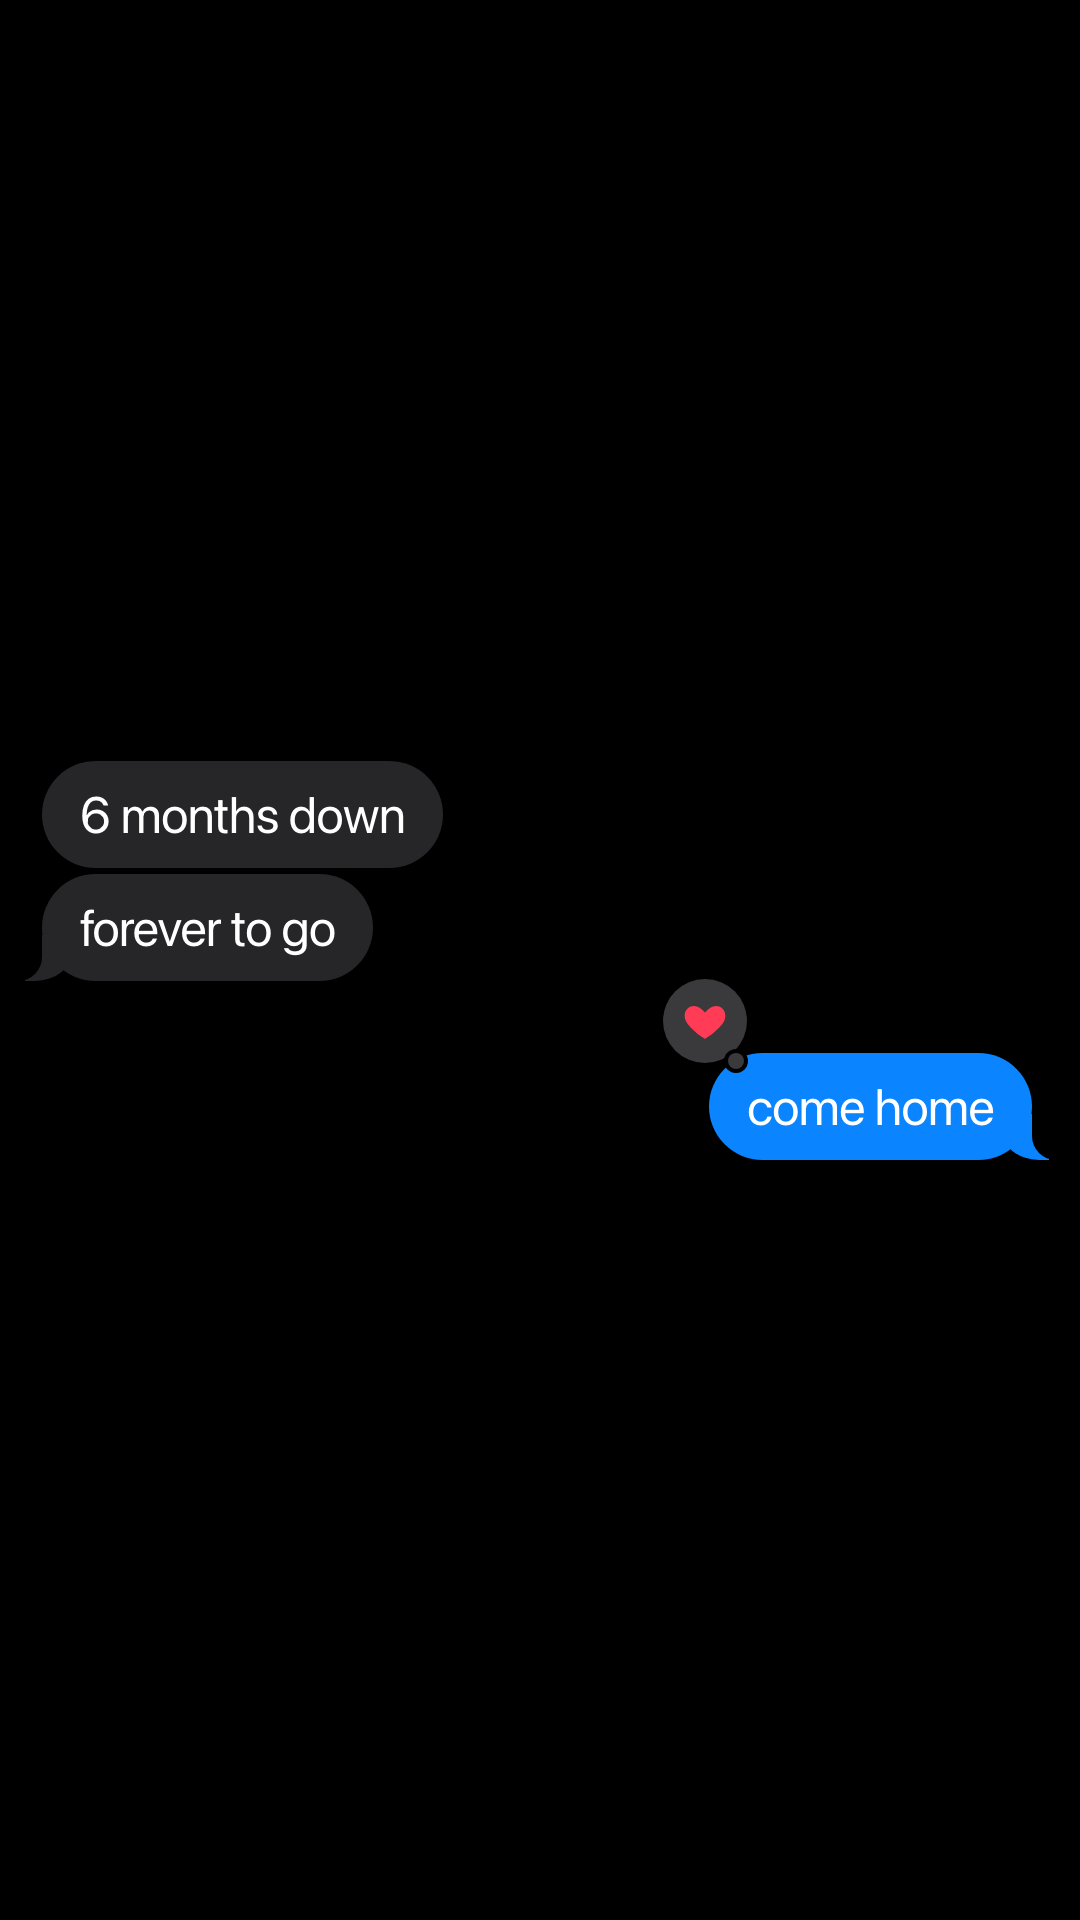
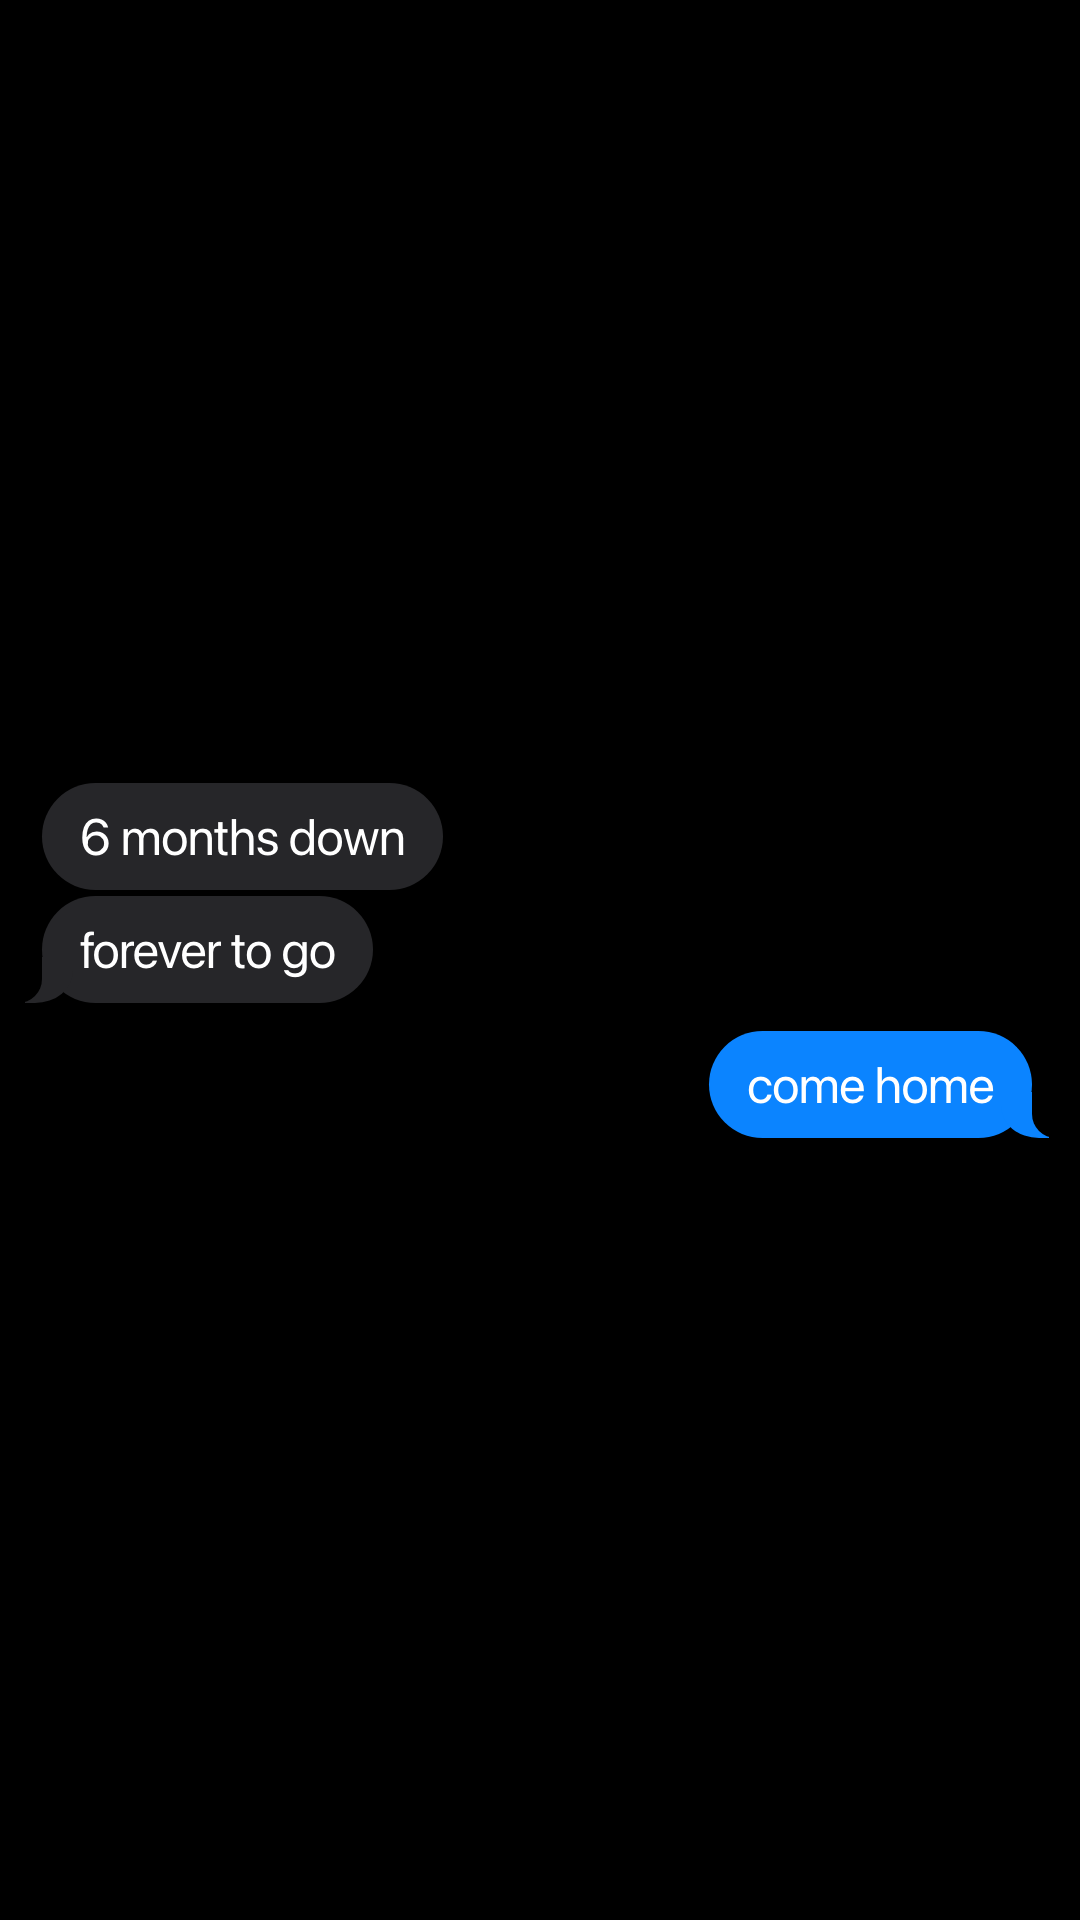
581–585: a fourth slide with a twist people comment on

Changed region(s): [[0.0306, 0.375, 0.4278, 0.5312], [0.6111, 0.5, 0.9778, 0.625]]

diff --git a/docs/marketing/tiktok-581/SCRIPT.md b/docs/marketing/tiktok-581/SCRIPT.md
@@ -1,7 +1,7 @@
-# 581 · id pick u every single one
+# 581 · especially that day
 
-**For:** any account, rosie included. **Engine:** saves and sends: a boyfriend plainly in love on an anniversary, so people get jealous and send it to theirs (30's engine).
-**Format:** rosie's own: 3 iMessage slides (1080×1920, dark iMessage, no crop, no look), posted as a photo carousel in this order, with a soft trending sound. Maya and Leo. The pink card (`"card": "blush"`). Link card only. If you add your own gift screenshots, put them after the slide with the link.
+**For:** any account, rosie included. **Engine:** saves and sends, with a twist for comments. A boyfriend plainly in love on an anniversary, so people get jealous and send it to theirs (30's engine). The last slide adds the turn people comment on.
+**Format:** rosie's own: 4 iMessage slides (1080×1920, dark iMessage, no crop, no look), posted as a photo carousel in this order, with a soft trending sound. Maya and Leo. The pink card (`"card": "blush"`). Link card only. If you add your own gift screenshots, put them after the slide with the link.
 **Before posting:** More options → Disclose post content → **Your brand** (TikTok's rule for posts that promote your own product).
 
 ## The story, slide by slide
@@ -9,12 +9,13 @@
 1. Yesterday 11:58 PM, he: "u awake my love" / She: "yes why" / He: "stay up 2 more minutes" / She: "why"
 2. Today 12:00 AM, he: "happy 1 year baby" / "best year of my whole life" and the link "happy 1 year maya 🤍" (pink card)
 3. 12:06 AM, she: "im crying" / "i love u so much" / He: "365 days and id pick u every single one" ♥
+4. She: "even the day i threw ur phone in the lake?" / He: "especially that day"
 
 **Real:** the chat never says what's inside the gift.
 
-## Why people will send it
+## Why people will comment
 
-30's clock (984.8K, 24.9K saves) on a first anniversary. "365 days and id pick u every single one" is the line girls send to their boyfriends, and the caption asks them to.
+The sweet part makes them jealous and send it. The twist is the lake. Everyone asks why she threw his phone in a lake, and he still picks that day.
 
 ## Caption (written as a search)
 
@@ -28,11 +29,11 @@ Never the website in the caption, and no 💅.
 
 ## Pinned comment (in character, never a brand)
 
-hes already planning year 2
+it was a pond. he still brings it up
 
 ## In the first hour
 
-Reply as Maya, in character. If someone asks what the site is, reply "tryethos" and pin that reply.
+Reply as Maya, in character. Have this ready: "why did u throw his phone 😭" → "he said my ex's name in his sleep. it was his COUSIN's name. long story". If someone asks what the site is, reply "tryethos" and pin that reply.
 
 ## Files
 

diff --git a/docs/marketing/tiktok-582/SCRIPT.md b/docs/marketing/tiktok-582/SCRIPT.md
@@ -1,20 +1,21 @@
-# 582 · come home
+# 582 · i lied
 
-**For:** any account, rosie included. **Engine:** saves and sends: a boyfriend plainly in love on an anniversary, so people get jealous and send it to theirs (30's engine).
-**Format:** rosie's own: 3 iMessage slides (1080×1920, dark iMessage, no crop, no look), posted as a photo carousel in this order, with a soft trending sound. Maya and Leo. The pink card (`"card": "blush"`). Link card only. If you add your own gift screenshots, put them after the slide with the link.
+**For:** any account, rosie included. **Engine:** saves and sends, with a twist for comments. A boyfriend plainly in love on an anniversary, so people get jealous and send it to theirs (30's engine). The last slide adds the turn people comment on.
+**Format:** rosie's own: 4 iMessage slides (1080×1920, dark iMessage, no crop, no look), posted as a photo carousel in this order, with a soft trending sound. Maya and Leo. The pink card (`"card": "blush"`). Link card only. If you add your own gift screenshots, put them after the slide with the link.
 **Before posting:** More options → Disclose post content → **Your brand** (TikTok's rule for posts that promote your own product).
 
 ## The story, slide by slide
 
 1. 6:58 AM, he: "good morning beautiful" / "its 1am here but i wanted to be first" / "happy 6 months" and the link "happy 6 months my love 🤍" (pink card)
 2. 7:16 AM, she: "LEO" / "i just woke up to this" / "im crying before coffee"
-3. He: "6 months down" / "forever to go" / She: "come home" ♥
+3. He: "6 months down" / "forever to go" / She: "come home"
+4. He: "check ur front door" / She: "u said it was 1am there" / He: "i lied" ♥
 
 **Real:** the chat never says what's inside the gift.
 
-## Why people will send it
+## Why people will comment
 
-Long distance couples send it to each other. He stayed up until 1am to be first, and "come home" is the sad-sweet last beat.
+The sweet part makes them jealous and send it. The twist is slide 4 changes slide 1: "its 1am here" was a lie, and he's at her door. People go back and read it again, and "i lied" is the line they quote.
 
 ## Caption (written as a search)
 
@@ -28,11 +29,11 @@ Never the website in the caption, and no 💅.
 
 ## Pinned comment (in character, never a brand)
 
-he lands in 12 days
+he was in the car outside the whole time
 
 ## In the first hour
 
-Reply as Maya, in character. If someone asks what the site is, reply "tryethos" and pin that reply.
+Reply as Maya, in character. Have this ready: "so it wasnt 1am 😭" → "it was 6:58am and he was 4 minutes away". If someone asks what the site is, reply "tryethos" and pin that reply.
 
 ## Files
 

diff --git a/docs/marketing/tiktok-584/SCRIPT.md b/docs/marketing/tiktok-584/SCRIPT.md
@@ -1,7 +1,7 @@
-# 584 · tell them its our anniversary
+# 584 · maya i have 3
 
-**For:** any account, rosie included. **Engine:** saves and sends: a boyfriend plainly in love on an anniversary, so people get jealous and send it to theirs (30's engine).
-**Format:** rosie's own: 3 iMessage slides (1080×1920, dark iMessage, no crop, no look), posted as a photo carousel in this order, with a soft trending sound. Maya and Leo. The pink card (`"card": "blush"`). Link card only. If you add your own gift screenshots, put them after the slide with the link.
+**For:** any account, rosie included. **Engine:** saves and sends, with a twist for comments. A boyfriend plainly in love on an anniversary, so people get jealous and send it to theirs (30's engine). The last slide adds the turn people comment on.
+**Format:** rosie's own: 4 iMessage slides (1080×1920, dark iMessage, no crop, no look), posted as a photo carousel in this order, with a soft trending sound. Maya and Leo. The pink card (`"card": "blush"`). Link card only. If you add your own gift screenshots, put them after the slide with the link.
 **Before posting:** More options → Disclose post content → **Your brand** (TikTok's rule for posts that promote your own product).
 
 ## The story, slide by slide
@@ -9,12 +9,13 @@
 1. 11:47 AM, she: "im so sorry i have to work today" / "on our anniversary" / He: "dont be sorry baby"
 2. He: "open this on ur break" and the link "happy anniversary 🤍" (pink card)
 3. 1:12 PM, she: "my coworkers are asking why im crying" / He: "tell them its our anniversary" ♥
+4. She: "i did" / "now my manager wants to know if u have a brother" / He: "maya i have 3"
 
 **Real:** the chat never says what's inside the gift.
 
-## Why people will send it
+## Why people will comment
 
-Everyone who works on a special day knows the feeling. He makes it about her anyway, and the coworkers asking is the detail that makes people ask what it was.
+The sweet part makes them jealous and send it. The twist is the brothers. People tag their single friends, and the comments fill with "does he really have 3".
 
 ## Caption (written as a search)
 
@@ -28,11 +29,11 @@ Never the website in the caption, and no 💅.
 
 ## Pinned comment (in character, never a brand)
 
-my manager let me leave early
+2 of them are single btw
 
 ## In the first hour
 
-Reply as Maya, in character. If someone asks what the site is, reply "tryethos" and pin that reply.
+Reply as Maya, in character. Have this ready: "which one is single" → "the middle one. hes the funny one". If someone asks what the site is, reply "tryethos" and pin that reply.
 
 ## Files
 

diff --git a/docs/marketing/tiktok-585/SCRIPT.md b/docs/marketing/tiktok-585/SCRIPT.md
@@ -1,7 +1,7 @@
-# 585 · im keeping u forever
+# 585 · dont lose her
 
-**For:** any account, rosie included. **Engine:** saves and sends: a boyfriend plainly in love on an anniversary, so people get jealous and send it to theirs (30's engine).
-**Format:** rosie's own: 3 iMessage slides (1080×1920, dark iMessage, no crop, no look), posted as a photo carousel in this order, with a soft trending sound. Maya and Leo. The pink card (`"card": "blush"`). Link card only. If you add your own gift screenshots, put them after the slide with the link.
+**For:** any account, rosie included. **Engine:** saves and sends, with a twist for comments. A boyfriend plainly in love on an anniversary, so people get jealous and send it to theirs (30's engine). The last slide adds the turn people comment on.
+**Format:** rosie's own: 4 iMessage slides (1080×1920, dark iMessage, no crop, no look), posted as a photo carousel in this order, with a soft trending sound. Maya and Leo. The pink card (`"card": "blush"`). Link card only. If you add your own gift screenshots, put them after the slide with the link.
 **Before posting:** More options → Disclose post content → **Your brand** (TikTok's rule for posts that promote your own product).
 
 ## The story, slide by slide
@@ -9,12 +9,13 @@
 1. 12:00 AM, he: "happy 14 months my love" and the link "14 🤍" (pink card)
 2. 7:41 AM, she: "how have u never missed one" / "not one month" / He: "i set a reminder the day u said yes"
 3. He: "it goes off every month and i smile like an idiot" / She: "im keeping u forever" ♥
+4. She: "whats the reminder called" / He: "dont lose her"
 
 **Real:** the chat never says what's inside the gift.
 
-## Why people will send it
+## Why people will comment
 
-"he's never missed one" makes every girl whose boyfriend forgets the year jealous. "i smile like an idiot" is the line people repeat, and they tag their boyfriends.
+The sweet part makes them jealous and send it. The twist is the reminder's name. "dont lose her" is the last line, the one people repeat and send.
 
 ## Caption (written as a search)
 
@@ -28,11 +29,11 @@ Never the website in the caption, and no 💅.
 
 ## Pinned comment (in character, never a brand)
 
-15 is next month and he already has the reminder
+he showed me the reminder. its real
 
 ## In the first hour
 
-Reply as Maya, in character. If someone asks what the site is, reply "tryethos" and pin that reply.
+Reply as Maya, in character. Have this ready: "im setting this reminder for my bf" → "tell him to name it right". If someone asks what the site is, reply "tryethos" and pin that reply.
 
 ## Files
 

diff --git a/docs/marketing/tiktok-583/SCRIPT.md b/docs/marketing/tiktok-583/SCRIPT.md
@@ -1,7 +1,7 @@
-# 583 · the luckiest guy alive
+# 583 · i liked u a day before
 
-**For:** any account, rosie included. **Engine:** saves and sends: a boyfriend plainly in love on an anniversary, so people get jealous and send it to theirs (30's engine).
-**Format:** rosie's own: 3 iMessage slides (1080×1920, dark iMessage, no crop, no look), posted as a photo carousel in this order, with a soft trending sound. Maya and Leo. The pink card (`"card": "blush"`). Link card only. If you add your own gift screenshots, put them after the slide with the link.
+**For:** any account, rosie included. **Engine:** saves and sends, with a twist for comments. A boyfriend plainly in love on an anniversary, so people get jealous and send it to theirs (30's engine). The last slide adds the turn people comment on.
+**Format:** rosie's own: 4 iMessage slides (1080×1920, dark iMessage, no crop, no look), posted as a photo carousel in this order, with a soft trending sound. Maya and Leo. The pink card (`"card": "blush"`). Link card only. If you add your own gift screenshots, put them after the slide with the link.
 **Before posting:** More options → Disclose post content → **Your brand** (TikTok's rule for posts that promote your own product).
 
 ## The story, slide by slide
@@ -9,12 +9,13 @@
 1. 8:30 PM, she: "do u know what today is" / He: "day 730" / She: "what"
 2. He: "730 days since u said yes" / "i counted every single one" and the link "730 days of u 🤍" (pink card)
 3. She: "who counts days" / "im crying" / He: "the luckiest guy alive does" ♥
+4. She: "its 731 for me" / He: "how" / She: "i liked u a day before i said yes"
 
 **Real:** the chat never says what's inside the gift.
 
-## Why people will send it
+## Why people will comment
 
-He counted, which is the detail people repeat. Believers send it to their boyfriends, and cynics argue.
+The sweet part makes them jealous and send it. The twist is she counts too, and she fell a day before he did. The comments argue about who fell first.
 
 ## Caption (written as a search)
 
@@ -28,11 +29,11 @@ Never the website in the caption, and no 💅.
 
 ## Pinned comment (in character, never a brand)
 
-day 731 today. he texted me the number
+he says it doesnt count. it counts
 
 ## In the first hour
 
-Reply as Maya, in character. If someone asks what the site is, reply "tryethos" and pin that reply.
+Reply as Maya, in character. Have this ready: "why did u make him wait a day" → "had to make sure 🤍". If someone asks what the site is, reply "tryethos" and pin that reply.
 
 ## Files
 

diff --git a/docs/marketing/VIRAL-FORMULA.md b/docs/marketing/VIRAL-FORMULA.md
@@ -2436,6 +2436,19 @@ reminder, woke at 1am.
 **Post order:** 581, 585, 582, 584, 583. One a night per account, with a soft sound. 581's caption asks
 viewers to "send this to your boyfriend".
 
+**Then the owner: "add a twist or something so people comment".** Each one now has a fourth slide. The love
+stays; one last line gives the room something to ask, argue or quote:
+
+| | The twist (slide 4) | What people comment |
+|---|---|---|
+| 581 | "even the day i threw ur phone in the lake?" / "especially that day" | why the lake |
+| 582 | "check ur front door" / "u said it was 1am there" / "i lied" | slide 1 was a lie; they reread it |
+| 583 | "its 731 for me" / "how" / "i liked u a day before i said yes" | who fell first |
+| 584 | "now my manager wants to know if u have a brother" / "maya i have 3" | tagging single friends |
+| 585 | "whats the reminder called" / "dont lose her" | the line they send |
+
+Love posts get their comments from a line like this. Every SCRIPT.md has a reply ready for the obvious question.
+
 ## Shockers: the sentence that means something else after the gift (165 and 166)
 
 Two posts built on one move: the first bubble is the worst text a person can receive, and the
